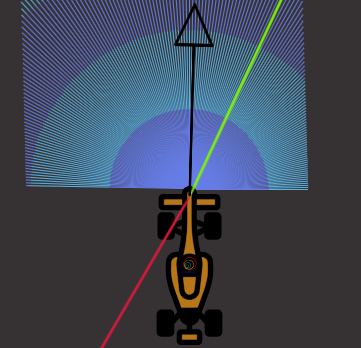
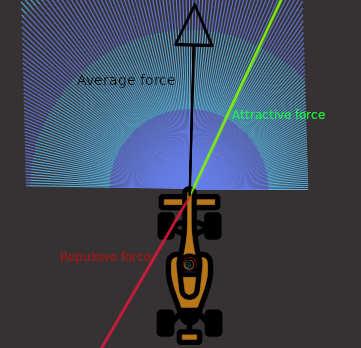
update p3

Changed region(s): [[0.2133, 0.2011, 0.4875, 0.2586], [0.6399, 0.3161, 0.9141, 0.3448], [0.1524, 0.7184, 0.4266, 0.7471]]

diff --git a/_site/2024/10/14/p3-obstacle_avoidance.html b/_site/2024/10/14/p3-obstacle_avoidance.html
@@ -78,6 +78,10 @@
 
 <p>The linear velocity depends on the distance calculated as the magnitude of the resulting vector from the weighted average of both forces. This way, at short distances, the speed is reduced to allow for precise evasion.</p>
 
+<p> </p>
+
+<p>Here it is a video with the behavior of the formula 1 car.</p>
+
 <div style="text-align: center;">
     <video width="500" controls="">
       <source src="/assets/videos/p3/cochevueltacompleta.webm" type="video/webm" />

diff --git a/_posts/2024-10-14-p3-obstacle_avoidance.md b/_posts/2024-10-14-p3-obstacle_avoidance.md
@@ -34,6 +34,10 @@ Reduce the size of the attractive vector, as at very high distances, it exerts t
 Increase the weight of small distances measured by the laser, so that when calculating the repulsive vector, these distances have more significance.
     
 The linear velocity depends on the distance calculated as the magnitude of the resulting vector from the weighted average of both forces. This way, at short distances, the speed is reduced to allow for precise evasion.
+
+&nbsp;
+
+Here it is a video with the behavior of the formula 1 car.
     
 <div style="text-align: center;">
     <video width="500" controls>
